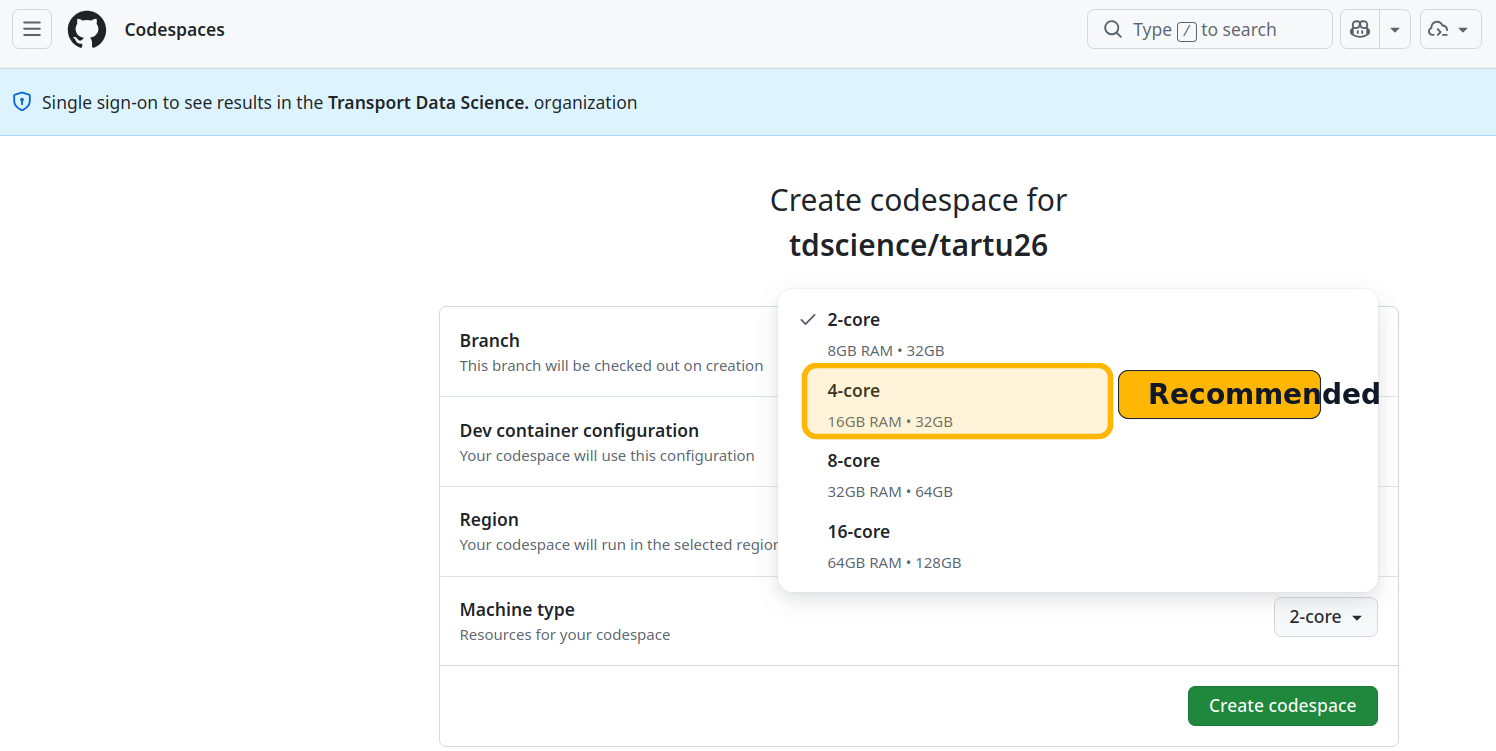
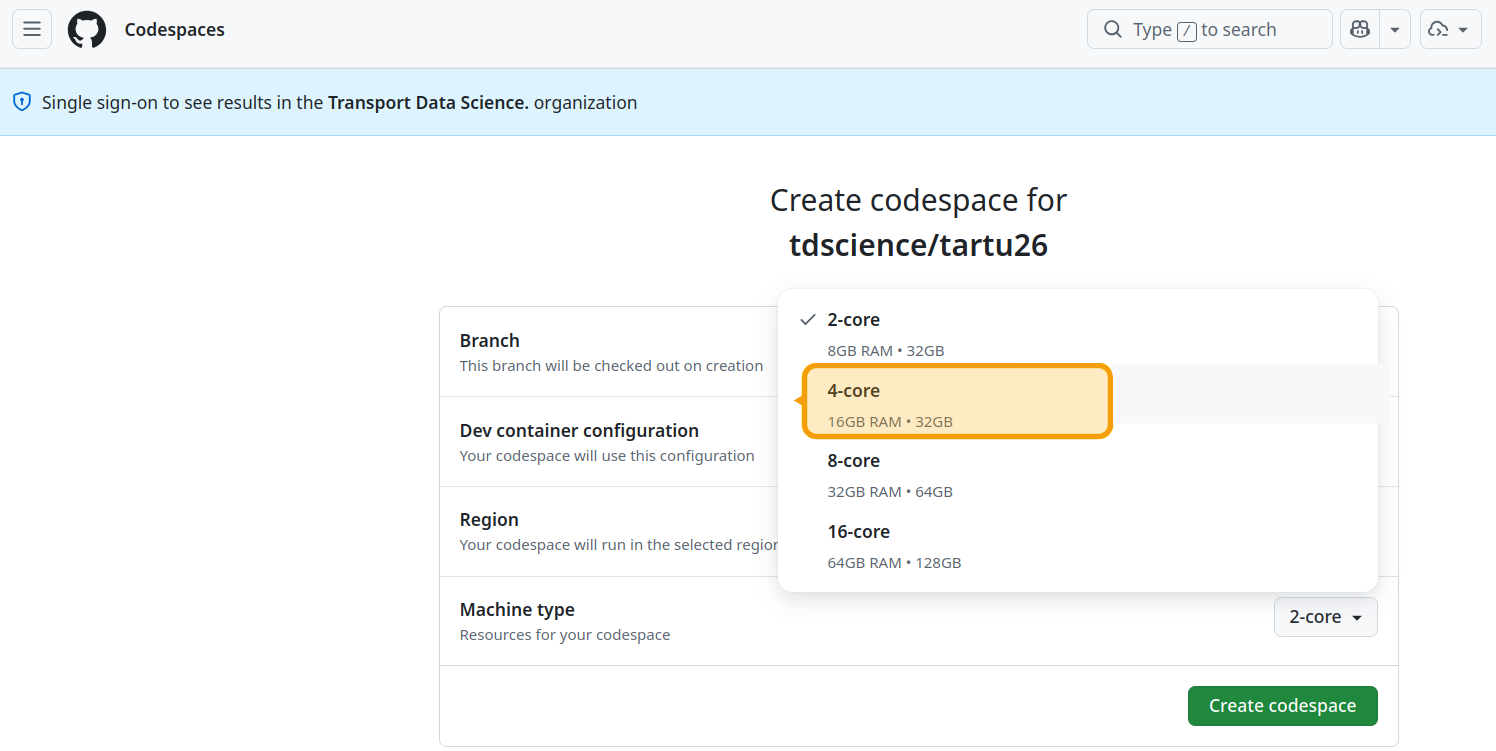
Minor tweaks

Changed region(s): [[0.5227, 0.49, 0.9225, 0.5819], [0.5535, 0.4594, 0.738, 0.49]]

diff --git a/README.md b/README.md
@@ -16,6 +16,21 @@ Open the repo in GitHub Codespaces or clone locally and open in VS Code with the
 
 Visit [https://tdscience.github.io/tartu26/](https://tdscience.github.io/tartu26/) for the rendered course materials.
 
+## Publishing
+
+Use the helper script to publish to GitHub Pages non-interactively and run a quick post-deploy check:
+
+```bash
+./scripts/publish-gh-pages.sh
+```
+
+Manual equivalent:
+
+```bash
+printf 'Y\n' | quarto publish gh-pages
+curl -s https://tdscience.github.io/tartu26/prerequisites.html | rg -n "flowmap-embed|seville_flowmap_embed\.html|paste-3\.png"
+```
+
 ## Sessions
 
 1. Finding and importing data